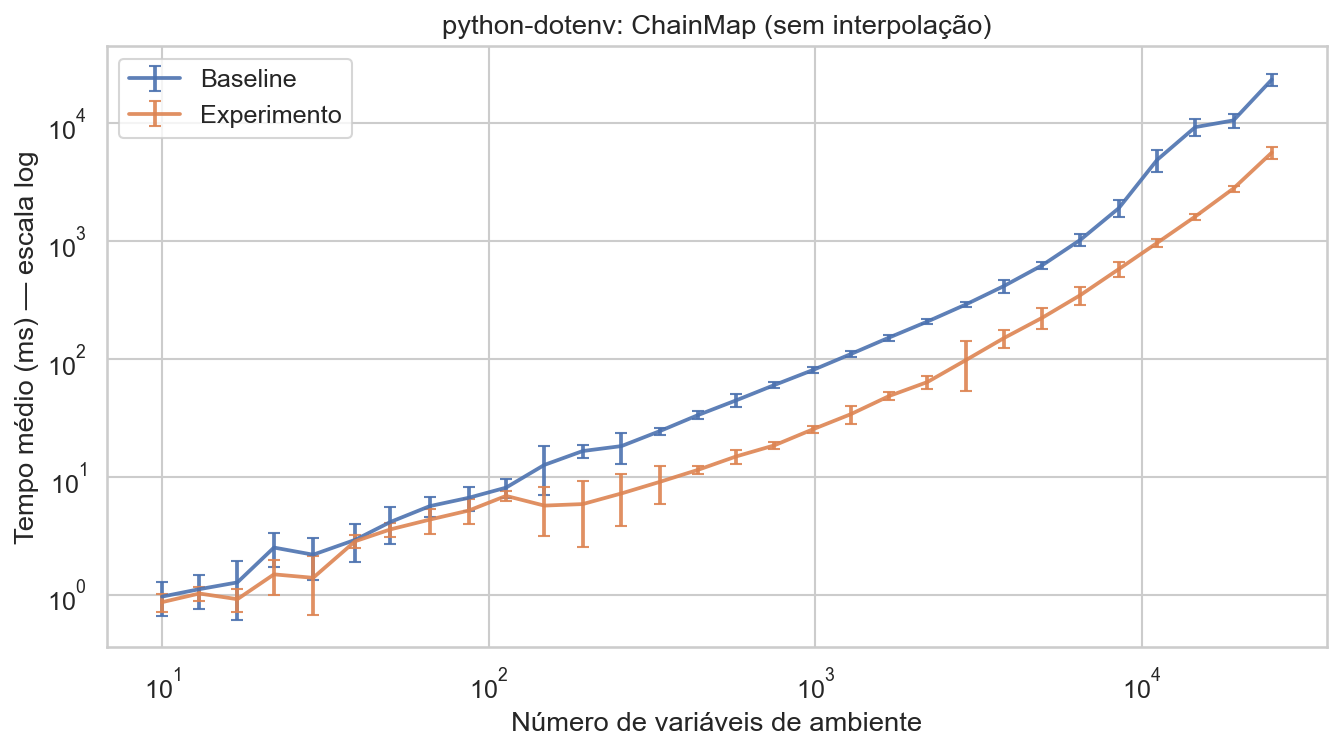
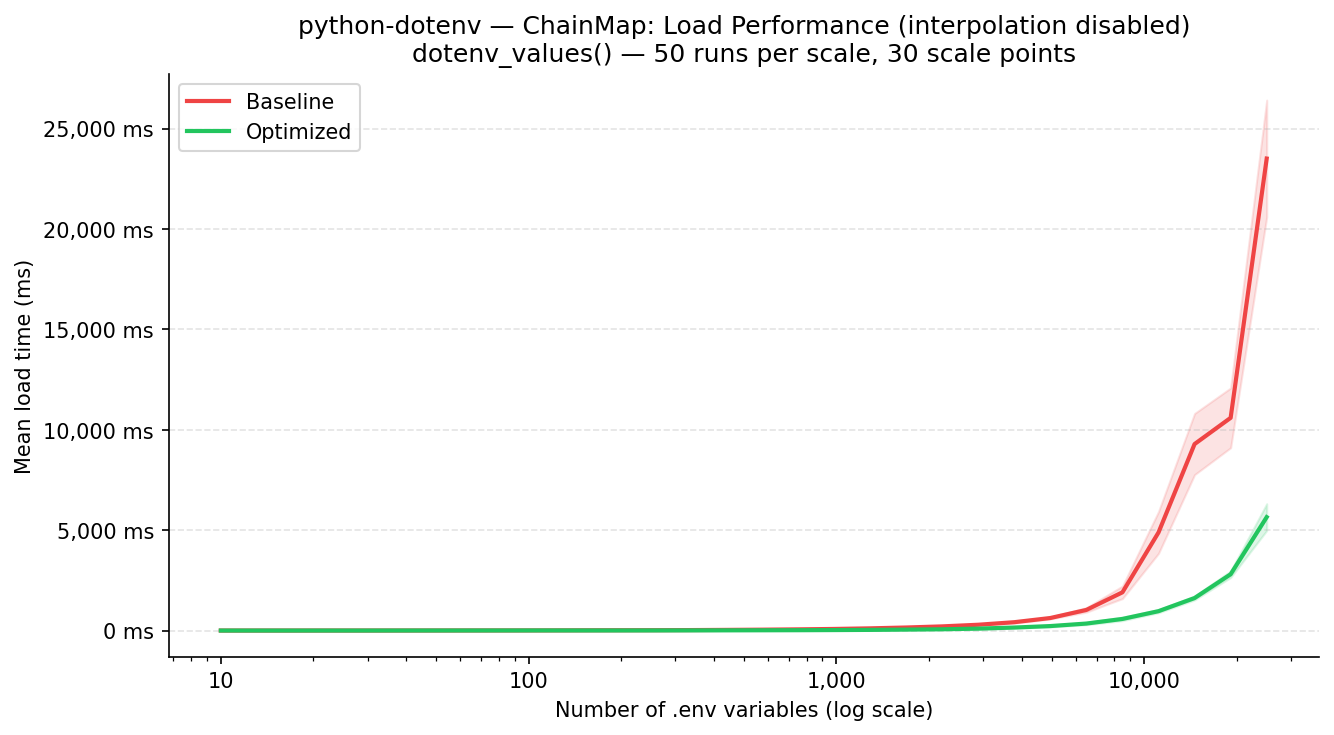
docs: add English-labeled benchmark charts and generation script
Generated from result JSON files in results/.
All chart labels, titles and annotations in English.

diff --git a/analysis/generate_plots.py b/analysis/generate_plots.py
@@ -1,0 +1,314 @@
+"""
+generate_plots.py
+
+Generates all benchmark comparison charts for the EDA OSS Performance project.
+All labels and titles are in English.
+
+Usage:
+    python analysis/generate_plots.py
+
+Output:
+    analysis/plots/<project>/<chart>.png
+"""
+
+import json
+import os
+
+import matplotlib.pyplot as plt
+import matplotlib.ticker as ticker
+import numpy as np
+
+# --- Style config ---
+COLORS = {
+    "baseline": "#ef4444",   # red
+    "optimized": "#22c55e",  # green
+}
+ERROR_KWARGS = dict(fmt="none", elinewidth=1.5, capsize=5, zorder=3)
+ALPHA_BAR = 0.88
+FONT_FAMILY = "DejaVu Sans"
+
+plt.rcParams.update({
+    "font.family": FONT_FAMILY,
+    "axes.spines.top": False,
+    "axes.spines.right": False,
+    "axes.grid": True,
+    "axes.grid.axis": "y",
+    "grid.alpha": 0.35,
+    "grid.linestyle": "--",
+})
+
+ROOT = os.path.dirname(os.path.dirname(os.path.abspath(__file__)))
+RESULTS_DIR = os.path.join(ROOT, "results")
+PLOTS_DIR = os.path.join(ROOT, "analysis", "plots")
+
+
+def ensure_dir(path: str) -> None:
+    os.makedirs(path, exist_ok=True)
+
+
+def save(fig: plt.Figure, subdir: str, name: str) -> None:
+    out = os.path.join(PLOTS_DIR, subdir)
+    ensure_dir(out)
+    path = os.path.join(out, name)
+    fig.savefig(path, dpi=150, bbox_inches="tight")
+    plt.close(fig)
+    print(f"  Saved: {os.path.relpath(path, ROOT)}")
+
+
+# -------------------------------------------------------------------------
+# 1. TinyDB — Bloom Filter (multi-scale grouped bar chart)
+# -------------------------------------------------------------------------
+def plot_tinydb_bloom_filter() -> None:
+    with open(os.path.join(RESULTS_DIR, "tinydb", "result_tinydb_bloom-filter.json")) as f:
+        data = json.load(f)
+
+    scales = data["scales"]
+    labels = [f"{s['num_docs']:,}" for s in scales]
+    baseline_means = [s["baseline_mean_ms"] for s in scales]
+    baseline_stds  = [s["baseline_std_ms"]  for s in scales]
+    optimized_means = [s["optimized_mean_ms"] for s in scales]
+    optimized_stds  = [s["optimized_std_ms"]  for s in scales]
+    improvements    = [s["improvement_pct"]   for s in scales]
+
+    x = np.arange(len(labels))
+    width = 0.35
+
+    fig, ax = plt.subplots(figsize=(8, 5))
+    bars_b = ax.bar(x - width / 2, baseline_means,  width, label="Baseline",  color=COLORS["baseline"],  alpha=ALPHA_BAR)
+    bars_o = ax.bar(x + width / 2, optimized_means, width, label="Optimized", color=COLORS["optimized"], alpha=ALPHA_BAR)
+    ax.errorbar(x - width / 2, baseline_means,  yerr=baseline_stds,  color="#b91c1c", **ERROR_KWARGS)
+    ax.errorbar(x + width / 2, optimized_means, yerr=optimized_stds, color="#15803d", **ERROR_KWARGS)
+
+    # Improvement annotations above optimized bars
+    for bar, pct in zip(bars_o, improvements):
+        ax.text(bar.get_x() + bar.get_width() / 2, bar.get_height() + max(baseline_stds) * 0.02,
+                f"−{pct:.1f}%", ha="center", va="bottom", fontsize=8, fontweight="bold", color="#15803d")
+
+    ax.set_yscale("log")
+    ax.yaxis.set_major_formatter(ticker.FuncFormatter(lambda v, _: f"{v:,.0f} ms"))
+    ax.set_xticks(x)
+    ax.set_xticklabels([f"{lbl} docs" for lbl in labels])
+    ax.set_xlabel("Dataset size")
+    ax.set_ylabel("Mean time per 100 negative lookups (ms, log scale)")
+    ax.set_title("TinyDB — Bloom Filter: Negative Lookup Performance\n(100 absent doc_id lookups per run, JSONStorage)")
+    ax.legend()
+    fig.tight_layout()
+    save(fig, "tinydb", "tinydb_bloom_filter_comparison.png")
+
+
+# -------------------------------------------------------------------------
+# 2. TinyDB — B-Tree (multi-scale grouped bar chart)
+# -------------------------------------------------------------------------
+def plot_tinydb_btree() -> None:
+    with open(os.path.join(RESULTS_DIR, "tinydb", "result_tinydb_btree.json")) as f:
+        data = json.load(f)
+
+    scales = data["scales"]
+    labels = [f"{s['num_docs']:,}" for s in scales]
+    baseline_means = [s["baseline_mean_ms"] for s in scales]
+    baseline_stds  = [s["baseline_std_ms"]  for s in scales]
+    optimized_means = [s["optimized_mean_ms"] for s in scales]
+    optimized_stds  = [s["optimized_std_ms"]  for s in scales]
+    improvements    = [s["improvement_pct"]   for s in scales]
+
+    x = np.arange(len(labels))
+    width = 0.35
+
+    fig, ax = plt.subplots(figsize=(8, 5))
+    bars_b = ax.bar(x - width / 2, baseline_means,  width, label="Baseline",  color=COLORS["baseline"],  alpha=ALPHA_BAR)
+    bars_o = ax.bar(x + width / 2, optimized_means, width, label="Optimized", color=COLORS["optimized"], alpha=ALPHA_BAR)
+    ax.errorbar(x - width / 2, baseline_means,  yerr=baseline_stds,  color="#b91c1c", **ERROR_KWARGS)
+    ax.errorbar(x + width / 2, optimized_means, yerr=optimized_stds, color="#15803d", **ERROR_KWARGS)
+
+    for bar, pct in zip(bars_o, improvements):
+        ax.text(bar.get_x() + bar.get_width() / 2, bar.get_height() + max(baseline_stds) * 0.02,
+                f"−{pct:.1f}%", ha="center", va="bottom", fontsize=8, fontweight="bold", color="#15803d")
+
+    ax.yaxis.set_major_formatter(ticker.FuncFormatter(lambda v, _: f"{v:,.0f} ms"))
+    ax.set_xticks(x)
+    ax.set_xticklabels([f"{lbl} docs" for lbl in labels])
+    ax.set_xlabel("Dataset size")
+    ax.set_ylabel("Mean time per 100 equality queries (ms)")
+    ax.set_title("TinyDB — B-Tree Index: Equality Search Performance\n(100 search(Query().field == value) per run, JSONStorage)")
+    ax.legend()
+    fig.tight_layout()
+    save(fig, "tinydb", "tinydb_btree_comparison.png")
+
+
+# -------------------------------------------------------------------------
+# Helper: ChainMap line chart (no-interp / interp)
+# -------------------------------------------------------------------------
+def _plot_chainmap(json_path: str, title: str, out_name: str) -> None:
+    with open(json_path) as f:
+        records = json.load(f)
+
+    # filter records where both means are available
+    xs      = [r["num_variables"] for r in records]
+    b_means = [r["baseline"]["mean_ms"]  for r in records]
+    b_stds  = [r["baseline"]["std_ms"]   for r in records]
+    o_means = [r["optimized"]["mean_ms"] for r in records]
+    o_stds  = [r["optimized"]["std_ms"]  for r in records]
+
+    fig, ax = plt.subplots(figsize=(9, 5))
+    ax.plot(xs, b_means, label="Baseline",  color=COLORS["baseline"],  linewidth=2)
+    ax.fill_between(xs,
+                    [m - s for m, s in zip(b_means, b_stds)],
+                    [m + s for m, s in zip(b_means, b_stds)],
+                    color=COLORS["baseline"], alpha=0.15)
+    ax.plot(xs, o_means, label="Optimized", color=COLORS["optimized"], linewidth=2)
+    ax.fill_between(xs,
+                    [m - s for m, s in zip(o_means, o_stds)],
+                    [m + s for m, s in zip(o_means, o_stds)],
+                    color=COLORS["optimized"], alpha=0.15)
+
+    ax.set_xscale("log")
+    ax.xaxis.set_major_formatter(ticker.FuncFormatter(lambda v, _: f"{int(v):,}"))
+    ax.yaxis.set_major_formatter(ticker.FuncFormatter(lambda v, _: f"{v:,.0f} ms"))
+    ax.set_xlabel("Number of .env variables (log scale)")
+    ax.set_ylabel("Mean load time (ms)")
+    ax.set_title(title)
+    ax.legend()
+    fig.tight_layout()
+    save(fig, "python-dotenv", out_name)
+
+
+# -------------------------------------------------------------------------
+# 3. python-dotenv — ChainMap (no interpolation)
+# -------------------------------------------------------------------------
+def plot_chainmap_no_interp() -> None:
+    _plot_chainmap(
+        os.path.join(RESULTS_DIR, "python-dotenv", "result_no_interpolation_dotenv_chainmap.json"),
+        "python-dotenv — ChainMap: Load Performance (interpolation disabled)\n"
+        "dotenv_values() — 50 runs per scale, 30 scale points",
+        "dotenv_chainmap_no_interpolation.png",
+    )
+
+
+# -------------------------------------------------------------------------
+# 4. python-dotenv — ChainMap (with interpolation)
+# -------------------------------------------------------------------------
+def plot_chainmap_interp() -> None:
+    _plot_chainmap(
+        os.path.join(RESULTS_DIR, "python-dotenv", "result_interpolation_dotenv_chainmap.json"),
+        "python-dotenv — ChainMap: Load Performance (interpolation enabled)\n"
+        "dotenv_values() — 50 runs per scale, 30 scale points",
+        "dotenv_chainmap_interpolation.png",
+    )
+
+
+# -------------------------------------------------------------------------
+# 5. python-dotenv — str.count (simple bar)
+# -------------------------------------------------------------------------
+def plot_str_count() -> None:
+    with open(os.path.join(RESULTS_DIR, "python-dotenv", "result_python-dotenv_str-count-newline-advance.json")) as f:
+        data = json.load(f)
+
+    b_mean, b_std = data["baseline"]["mean_ms"],  data["baseline"]["std_ms"]
+    o_mean, o_std = data["optimized"]["mean_ms"], data["optimized"]["std_ms"]
+    improvement   = data["improvement_pct"]
+
+    fig, ax = plt.subplots(figsize=(6, 5))
+    bars = ax.bar(["Baseline", "Optimized"], [b_mean, o_mean],
+                  color=[COLORS["baseline"], COLORS["optimized"]], alpha=ALPHA_BAR, width=0.4)
+    ax.errorbar([0, 1], [b_mean, o_mean], yerr=[b_std, o_std],
+                color="black", **ERROR_KWARGS)
+    ax.text(1, o_mean + o_std + 100, f"−{improvement:.1f}%",
+            ha="center", va="bottom", fontsize=10, fontweight="bold", color="#15803d")
+
+    ax.yaxis.set_major_formatter(ticker.FuncFormatter(lambda v, _: f"{v:,.0f} ms"))
+    ax.set_ylabel("Mean full-file parse time (ms)")
+    ax.set_title("python-dotenv — str.count: Parser Performance\n"
+                 f"(24,999 variables | baseline n={data['baseline']['runs']}, "
+                 f"optimized n={data['optimized']['runs']})")
+    fig.tight_layout()
+    save(fig, "python-dotenv", "dotenv_str_count_newline.png")
+
+
+# -------------------------------------------------------------------------
+# Helper: simple 2-bar chart for whoosh experiments
+# -------------------------------------------------------------------------
+def _plot_whoosh_simple(json_path: str, title: str, ylabel: str, out_subdir: str, out_name: str) -> None:
+    with open(json_path) as f:
+        data = json.load(f)
+
+    b_mean, b_std = data["baseline"]["mean_ms"],  data["baseline"]["std_ms"]
+    o_mean, o_std = data["optimized"]["mean_ms"], data["optimized"]["std_ms"]
+    improvement   = data["improvement_pct"]
+    confirmed     = data.get("improvement_confirmed", False)
+    b_runs        = data["baseline"]["runs"]
+    o_runs        = data["optimized"]["runs"]
+
+    fig, ax = plt.subplots(figsize=(6, 5))
+    ax.bar(["Baseline", "Optimized"], [b_mean, o_mean],
+           color=[COLORS["baseline"], COLORS["optimized"]], alpha=ALPHA_BAR, width=0.4)
+    ax.errorbar([0, 1], [b_mean, o_mean], yerr=[b_std, o_std],
+                color="black", **ERROR_KWARGS)
+
+    label = f"−{improvement:.2f}%"
+    label += " ✓" if confirmed else " *"
+    ax.text(1, o_mean + o_std * 0.3 + (b_mean - o_mean) * 0.05,
+            label, ha="center", va="bottom", fontsize=10, fontweight="bold",
+            color="#15803d" if confirmed else "#ca8a04")
+
+    ax.yaxis.set_major_formatter(ticker.FuncFormatter(lambda v, _: f"{v:,.2f} ms"))
+    ax.set_ylabel(ylabel)
+    note = "(* difference < baseline std dev — improvement objective but not confirmed by strict criterion)" if not confirmed else ""
+    ax.set_title(f"{title}\n(baseline n={b_runs}, optimized n={o_runs}){chr(10)+note if note else ''}", fontsize=9.5)
+    fig.tight_layout()
+    save(fig, out_subdir, out_name)
+
+
+# -------------------------------------------------------------------------
+# 6. whoosh-reloaded — Skip Lists
+# -------------------------------------------------------------------------
+def plot_whoosh_skip_lists() -> None:
+    _plot_whoosh_simple(
+        os.path.join(RESULTS_DIR, "whoosh-reloaded", "result_whoosh-reloaded_skip-lists.json"),
+        "whoosh-reloaded — Skip Lists: AND Intersection Performance\n"
+        "(500k docs, 100 AND query pairs per run)",
+        "Mean time per run (ms)",
+        "whoosh-reloaded",
+        "whoosh_skip_lists_comparison.png",
+    )
+
+
+# -------------------------------------------------------------------------
+# 7. whoosh-reloaded — Bloom Filter
+# -------------------------------------------------------------------------
+def plot_whoosh_bloom_filter() -> None:
+    _plot_whoosh_simple(
+        os.path.join(RESULTS_DIR, "whoosh-reloaded", "result_whoosh-reloaded_bloom-filter.json"),
+        "whoosh-reloaded — Bloom Filter: Negative Term Lookup Performance\n"
+        "(500k docs, 1,000 absent-term queries per run)",
+        "Mean time per 1,000 absent queries (ms)",
+        "whoosh-reloaded",
+        "whoosh_bloom_filter_comparison.png",
+    )
+
+
+# -------------------------------------------------------------------------
+# 8. whoosh-reloaded — N-grams wildcard
+# -------------------------------------------------------------------------
+def plot_whoosh_ngrams() -> None:
+    _plot_whoosh_simple(
+        os.path.join(RESULTS_DIR, "whoosh-reloaded", "result_whoosh-reloaded_ngrams.json"),
+        "whoosh-reloaded — N-gram Index: Prefix-less Wildcard Performance\n"
+        "(30k docs, 40 wildcard queries per run: *ados, *ritmo*, *logia, *graf*)",
+        "Mean time per run (ms)",
+        "whoosh-reloaded",
+        "whoosh_ngrams_comparison.png",
+    )
+
+
+# -------------------------------------------------------------------------
+if __name__ == "__main__":
+    print("Generating charts…")
+    plot_tinydb_bloom_filter()
+    plot_tinydb_btree()
+    plot_chainmap_no_interp()
+    plot_chainmap_interp()
+    plot_str_count()
+    plot_whoosh_skip_lists()
+    plot_whoosh_bloom_filter()
+    plot_whoosh_ngrams()
+    print("Done.")
